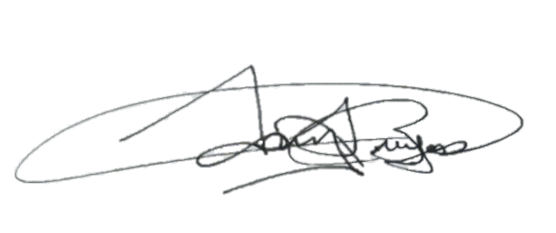
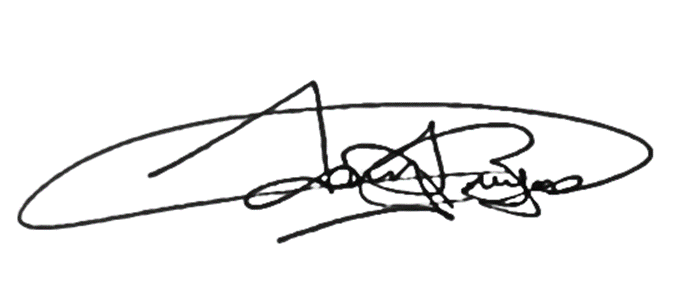
font on issues page and signature larger and darkened

Changed region(s): [[0.0, 0.2704, 0.9478, 0.8412], [0.214, 0.4506, 0.3363, 0.6309]]

diff --git a/issues.css b/issues.css
@@ -38,7 +38,6 @@
 	align-items: center;
 }
 .issuesTitle {
-	border-right: 3px solid #272c51;
 	background-color: rgb(236,236,236);
 	grid-column: 1 / -1;
 	height: 100%;
@@ -82,7 +81,7 @@
 .issues > ul > li {
 	line-height: 3rem;
 	margin-top: 1rem;
-	font-size: clamp(1rem, 1.7rem, 2.5rem);
+	/*font-size: clamp(1rem, 1.7rem, 2.5rem);*/
 }
 .card button {
 	border: none;
@@ -95,19 +94,22 @@
 	transform: scaleY(-1);
 }
 .issue6 div.card h3 { /*fits longer title in with arrow*/
-	display: grid;
 	grid-template-columns: 2fr 1fr;
 }
 div.content > div:last-of-type {
 	margin-bottom: -1.5rem;
 }
 .issues > ul > li:first-of-type {
-	margin-top: min(3rem);
+	margin-top: min(2rem);
 }
-
 .signature {
 	display: grid;
 	justify-items: center;
 	margin-top: -4.7rem;
 	z-index: -1;
+}
+/***************************font stuff*/
+ul.dropList > li {
+	font-family: nunito-sans,sans-serif;
+	font-size: 2.7rem;
 }
